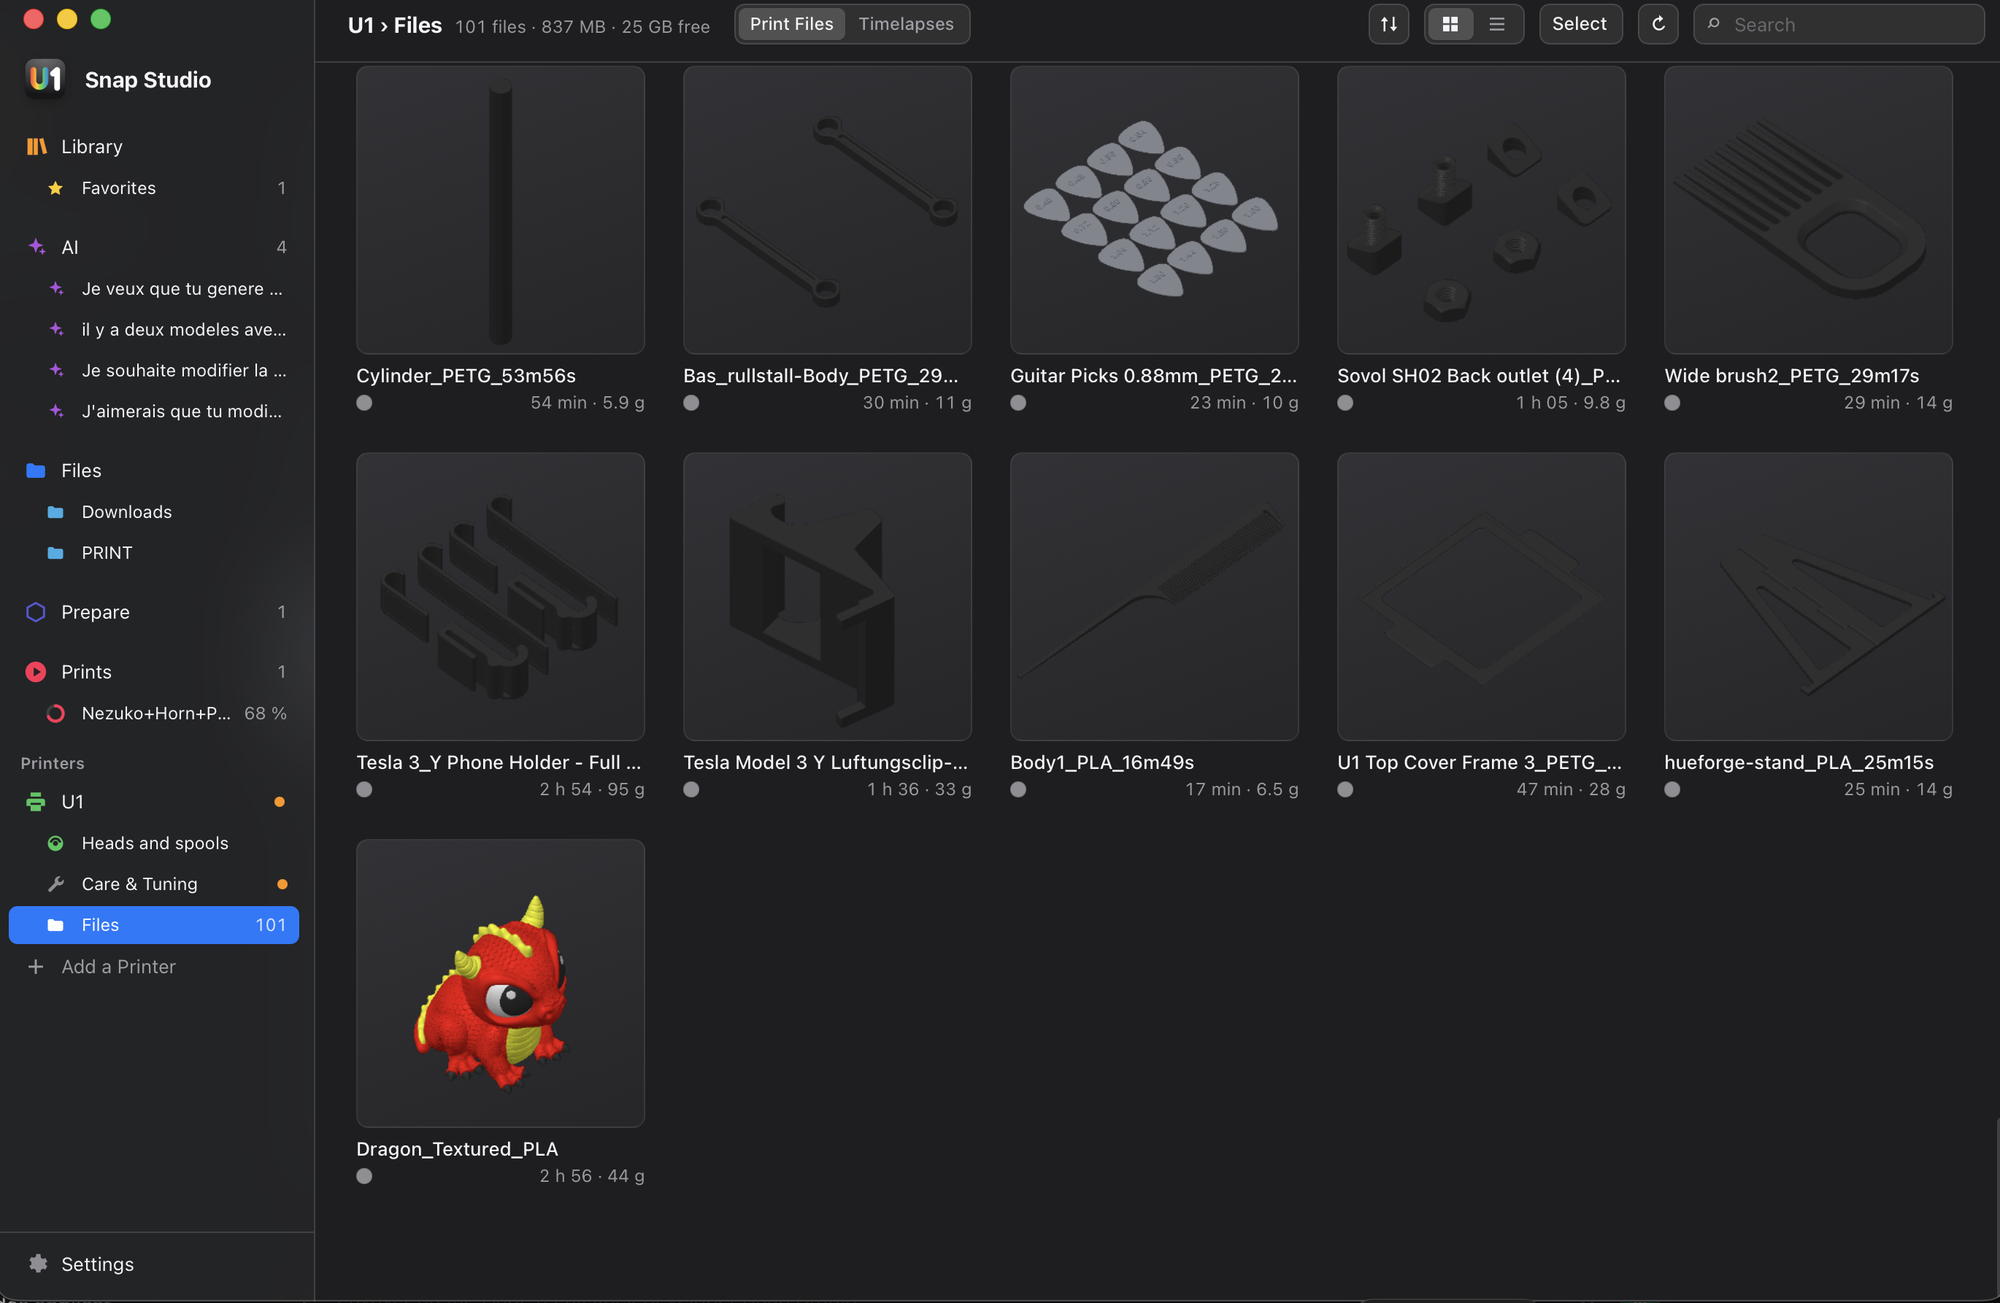
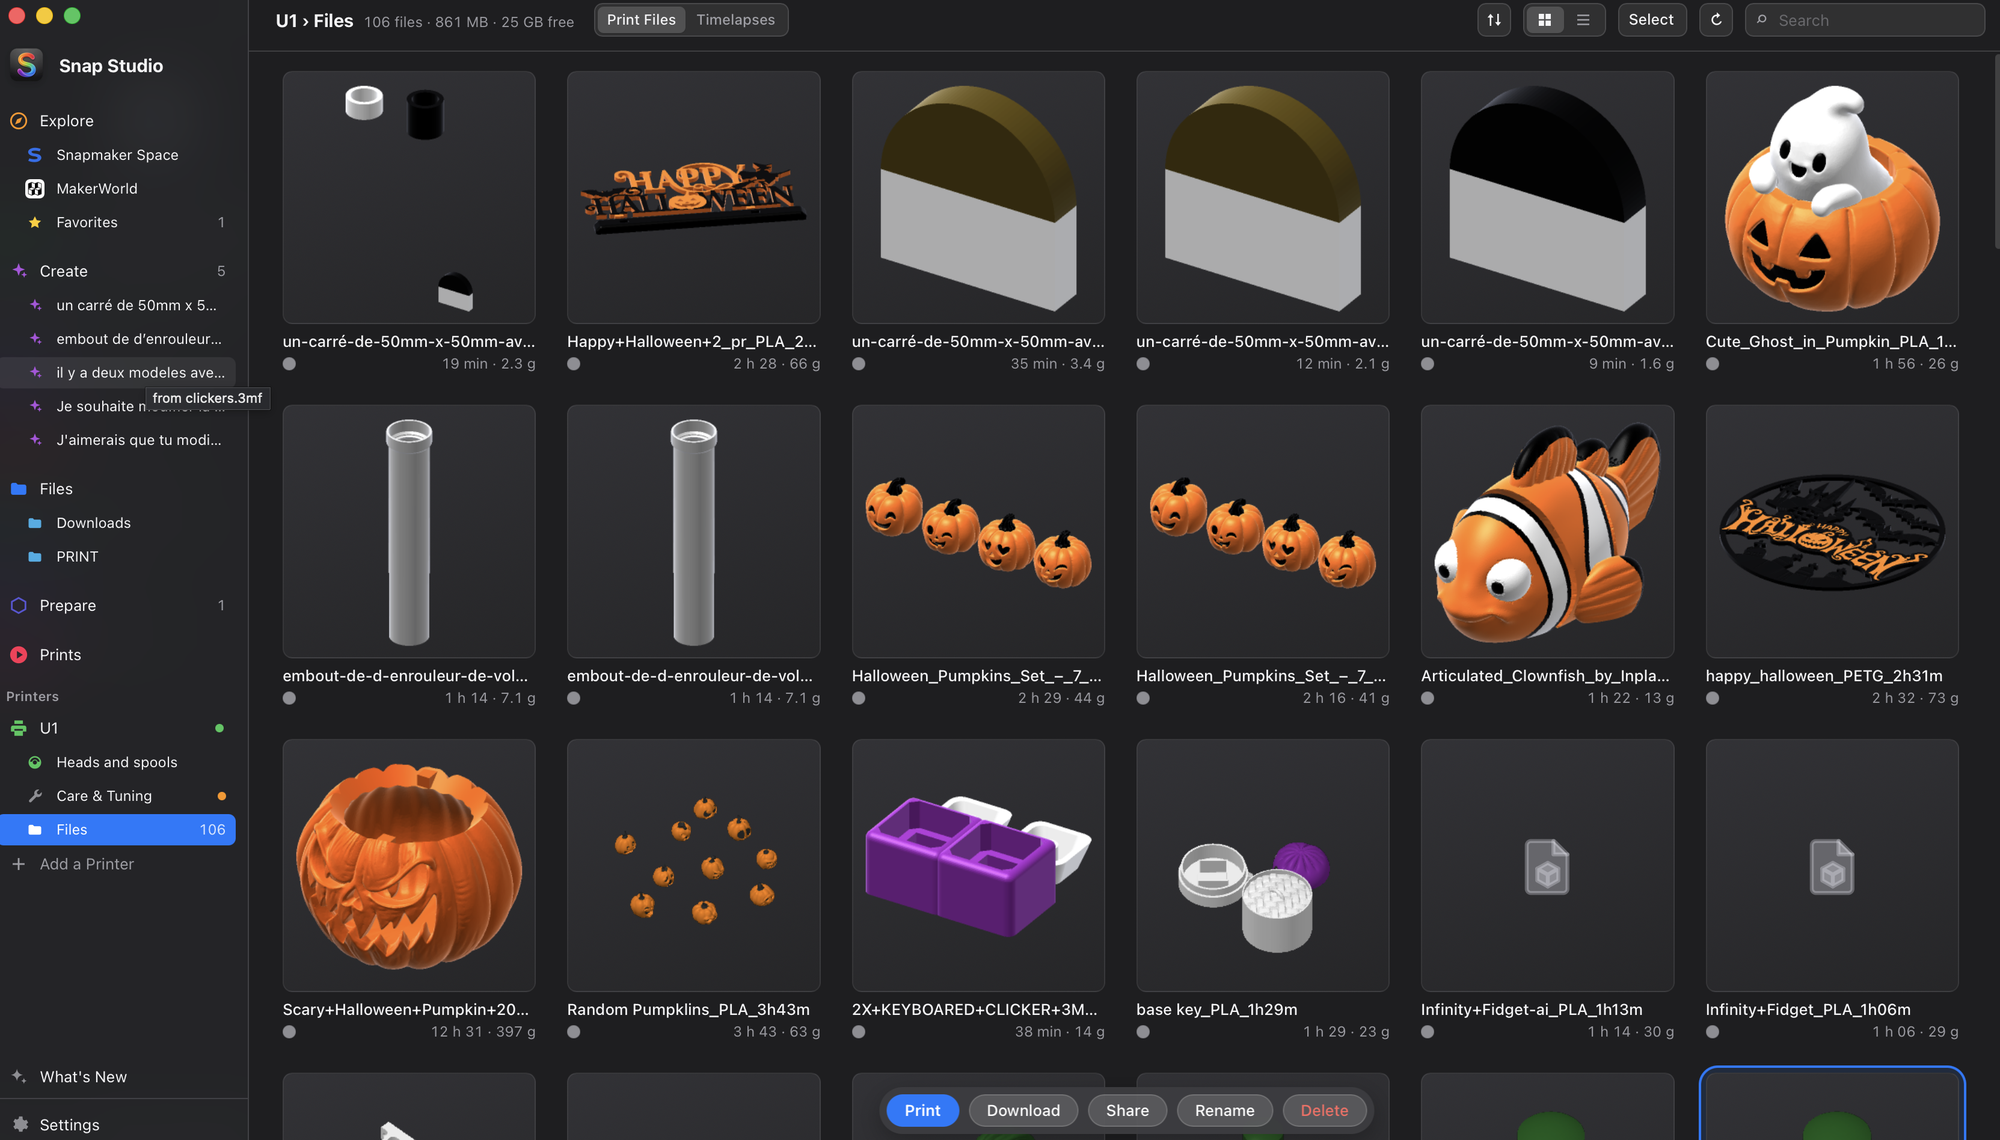
docs: Real screenshots of the current app for the README and the site
control, display, library (Explore), maintenance (Care), printer-files
and printer (the README's hero) are retaken with the rainbow S icon, the
Explore / Create sidebar and the What's New card; printer-camera is now
the pinned camera window with its close button. The site's WebP copies,
thumbnails, sizes and captions follow, and the 0.16 What's new shows the
real New virtual head sheet. What's new entries 0.9 to 0.14 keep the
pictures of their time, moved to <name>-<version>.webp.

diff --git a/site/index.html b/site/index.html
@@ -37,7 +37,7 @@
         <a class="btn ghost" href="https://github.com/kameka22/snap-studio" data-i18n="hero.source">View on GitHub</a>
       </div>
       <p id="hero-dl-note" class="note"></p>
-      <img class="hero-shot" src="assets/printer.webp" alt="The printer&#x27;s page: the U1 in 3D and its spools" data-i18n-alt="shots.printer_alt" width="1400" height="817">
+      <img class="hero-shot" src="assets/printer.webp" alt="The printer&#x27;s page: the U1 in 3D and its spools" data-i18n-alt="shots.printer_alt" width="1400" height="807">
     </section>
 
     <section id="features" class="features">
@@ -83,13 +83,13 @@
           <div class="g-track" aria-live="polite">
           <figure class="g-slide is-active" role="group" aria-roledescription="slide" data-i18n-roledesc="gal.slide_role" aria-label="1 / 12" data-index="0">
             <button type="button" class="g-open" data-open="0" aria-label="Open fullscreen: Your printer in 3D: click a spool, a head, the bed or the light to control it" data-cap="shots.printer" tabindex="0">
-              <img src="assets/printer.webp" alt="The printer&#x27;s page: the U1 in 3D and its spools" data-i18n-alt="shots.printer_alt" width="1400" height="817">
+              <img src="assets/printer.webp" alt="The printer&#x27;s page: the U1 in 3D and its spools" data-i18n-alt="shots.printer_alt" width="1400" height="807">
             </button>
             <figcaption><span class="g-cap" data-i18n="shots.printer">Your printer in 3D: click a spool, a head, the bed or the light to control it</span></figcaption>
           </figure>
           <figure class="g-slide" role="group" aria-roledescription="slide" data-i18n-roledesc="gal.slide_role" aria-label="2 / 12" data-index="1" aria-hidden="true">
             <button type="button" class="g-open" data-open="1" aria-label="Open fullscreen: Control: move, heat, load and unload each head, fans and light, without G-code" data-cap="shots.control" tabindex="-1">
-              <img src="assets/control.webp" alt="Care &amp; Tuning › Control" data-i18n-alt="shots.control_alt" width="1400" height="817">
+              <img src="assets/control.webp" alt="Care &amp; Tuning › Control" data-i18n-alt="shots.control_alt" width="1400" height="799">
             </button>
             <figcaption><span class="g-cap" data-i18n="shots.control">Control: move, heat, load and unload each head, fans and light, without G-code</span></figcaption>
           </figure>
@@ -112,10 +112,10 @@
             <figcaption><span class="g-cap" data-i18n="shots.ai-chat">AI: Claude models a part, with a live 3D preview</span></figcaption>
           </figure>
           <figure class="g-slide" role="group" aria-roledescription="slide" data-i18n-roledesc="gal.slide_role" aria-label="6 / 12" data-index="5" aria-hidden="true">
-            <button type="button" class="g-open" data-open="5" aria-label="Open fullscreen: Camera: the printer&#x27;s camera, live" data-cap="shots.printer-camera" tabindex="-1">
-              <img src="assets/printer-camera.webp" alt="The printer&#x27;s camera" data-i18n-alt="shots.printer-camera_alt" width="1400" height="824" loading="lazy">
+            <button type="button" class="g-open" data-open="5" aria-label="Open fullscreen: Camera: the printer&#x27;s camera, live, pinned in a corner" data-cap="shots.printer-camera" tabindex="-1">
+              <img src="assets/printer-camera.webp" alt="The printer&#x27;s camera" data-i18n-alt="shots.printer-camera_alt" width="1400" height="668" loading="lazy">
             </button>
-            <figcaption><span class="g-cap" data-i18n="shots.printer-camera">Camera: the printer&#x27;s camera, live</span></figcaption>
+            <figcaption><span class="g-cap" data-i18n="shots.printer-camera">Camera: the printer&#x27;s camera, live, pinned in a corner</span></figcaption>
           </figure>
           <figure class="g-slide" role="group" aria-roledescription="slide" data-i18n-roledesc="gal.slide_role" aria-label="7 / 12" data-index="6" aria-hidden="true">
             <button type="button" class="g-open" data-open="6" aria-label="Open fullscreen: Prints: progress, temperatures, pause and cancel" data-cap="shots.print-job" tabindex="-1">
@@ -125,25 +125,25 @@
           </figure>
           <figure class="g-slide" role="group" aria-roledescription="slide" data-i18n-roledesc="gal.slide_role" aria-label="8 / 12" data-index="7" aria-hidden="true">
             <button type="button" class="g-open" data-open="7" aria-label="Open fullscreen: A printer&#x27;s files: print files and timelapses, read live" data-cap="shots.printer-files" tabindex="-1">
-              <img src="assets/printer-files.webp" alt="A printer&#x27;s files" data-i18n-alt="shots.printer-files_alt" width="1400" height="912" loading="lazy">
+              <img src="assets/printer-files.webp" alt="A printer&#x27;s files" data-i18n-alt="shots.printer-files_alt" width="1400" height="798" loading="lazy">
             </button>
             <figcaption><span class="g-cap" data-i18n="shots.printer-files">A printer&#x27;s files: print files and timelapses, read live</span></figcaption>
           </figure>
           <figure class="g-slide" role="group" aria-roledescription="slide" data-i18n-roledesc="gal.slide_role" aria-label="9 / 12" data-index="8" aria-hidden="true">
             <button type="button" class="g-open" data-open="8" aria-label="Open fullscreen: Explore home: Space, Store, Wiki, Forum, Account, libraries and Store picks" data-cap="shots.library" tabindex="-1">
-              <img src="assets/library.webp" alt="Explore home: Snapmaker Space, Store, Wiki, Forum, Account, model libraries and featured Store products" data-i18n-alt="shots.library_alt" width="1400" height="917" loading="lazy">
+              <img src="assets/library.webp" alt="Explore home: Snapmaker Space, Store, Wiki, Forum, Account, model libraries and featured Store products" data-i18n-alt="shots.library_alt" width="1400" height="800" loading="lazy">
             </button>
             <figcaption><span class="g-cap" data-i18n="shots.library">Explore home: Space, Store, Wiki, Forum, Account, libraries and Store picks</span></figcaption>
           </figure>
           <figure class="g-slide" role="group" aria-roledescription="slide" data-i18n-roledesc="gal.slide_role" aria-label="10 / 12" data-index="9" aria-hidden="true">
             <button type="button" class="g-open" data-open="9" aria-label="Open fullscreen: Care &amp; Tuning: maintenance tasks, the heads&#x27; counters, the bed&#x27;s leveling" data-cap="shots.maintenance" tabindex="-1">
-              <img src="assets/maintenance.webp" alt="Care &amp; Tuning" data-i18n-alt="shots.maintenance_alt" width="1400" height="912" loading="lazy">
+              <img src="assets/maintenance.webp" alt="Care &amp; Tuning" data-i18n-alt="shots.maintenance_alt" width="1400" height="803" loading="lazy">
             </button>
             <figcaption><span class="g-cap" data-i18n="shots.maintenance">Care &amp; Tuning: maintenance tasks, the heads&#x27; counters, the bed&#x27;s leveling</span></figcaption>
           </figure>
           <figure class="g-slide" role="group" aria-roledescription="slide" data-i18n-roledesc="gal.slide_role" aria-label="11 / 12" data-index="10" aria-hidden="true">
             <button type="button" class="g-open" data-open="10" aria-label="Open fullscreen: Display: light or dark, ten themes and the accent color" data-cap="shots.display" tabindex="-1">
-              <img src="assets/display.webp" alt="Settings › Display" data-i18n-alt="shots.display_alt" width="1400" height="912" loading="lazy">
+              <img src="assets/display.webp" alt="Settings › Display" data-i18n-alt="shots.display_alt" width="1400" height="805" loading="lazy">
             </button>
             <figcaption><span class="g-cap" data-i18n="shots.display">Display: light or dark, ten themes and the accent color</span></figcaption>
           </figure>
@@ -162,17 +162,17 @@
           <button type="button" class="g-play" id="g-play" aria-pressed="false" aria-label="Pause the slideshow" data-i18n-aria="gal.pause"><svg class="i-pause" viewBox="0 0 24 24" aria-hidden="true" focusable="false"><path d="M8 5v14M16 5v14"/></svg><svg class="i-play" viewBox="0 0 24 24" aria-hidden="true" focusable="false"><path d="M8 5l11 7-11 7z"/></svg></button>
         </div>
         <div class="g-thumbs" id="g-thumbs">
-        <button type="button" class="g-thumb is-active" data-go="0" aria-label="Your printer in 3D: click a spool, a head, the bed or the light to control it" data-cap="shots.printer" aria-current="true"><img src="assets/thumbs/printer.webp" alt="" width="160" height="94" loading="lazy"></button>
-        <button type="button" class="g-thumb" data-go="1" aria-label="Control: move, heat, load and unload each head, fans and light, without G-code" data-cap="shots.control"><img src="assets/thumbs/control.webp" alt="" width="160" height="94" loading="lazy"></button>
+        <button type="button" class="g-thumb is-active" data-go="0" aria-label="Your printer in 3D: click a spool, a head, the bed or the light to control it" data-cap="shots.printer" aria-current="true"><img src="assets/thumbs/printer.webp" alt="" width="160" height="92" loading="lazy"></button>
+        <button type="button" class="g-thumb" data-go="1" aria-label="Control: move, heat, load and unload each head, fans and light, without G-code" data-cap="shots.control"><img src="assets/thumbs/control.webp" alt="" width="160" height="91" loading="lazy"></button>
         <button type="button" class="g-thumb" data-go="2" aria-label="Files: thumbnails of your 3MF files, duration, filament and plates" data-cap="shots.files"><img src="assets/thumbs/files.webp" alt="" width="160" height="104" loading="lazy"></button>
         <button type="button" class="g-thumb" data-go="3" aria-label="Prepare: the U1 plate in 3D, each color sent to its head, and one prime tower per material" data-cap="shots.prepare"><img src="assets/thumbs/prepare.webp" alt="" width="160" height="104" loading="lazy"></button>
         <button type="button" class="g-thumb" data-go="4" aria-label="AI: Claude models a part, with a live 3D preview" data-cap="shots.ai-chat"><img src="assets/thumbs/ai-chat.webp" alt="" width="160" height="104" loading="lazy"></button>
-        <button type="button" class="g-thumb" data-go="5" aria-label="Camera: the printer&#x27;s camera, live" data-cap="shots.printer-camera"><img src="assets/thumbs/printer-camera.webp" alt="" width="160" height="94" loading="lazy"></button>
+        <button type="button" class="g-thumb" data-go="5" aria-label="Camera: the printer&#x27;s camera, live, pinned in a corner" data-cap="shots.printer-camera"><img src="assets/thumbs/printer-camera.webp" alt="" width="160" height="76" loading="lazy"></button>
         <button type="button" class="g-thumb" data-go="6" aria-label="Prints: progress, temperatures, pause and cancel" data-cap="shots.print-job"><img src="assets/thumbs/print-job.webp" alt="" width="160" height="94" loading="lazy"></button>
-        <button type="button" class="g-thumb" data-go="7" aria-label="A printer&#x27;s files: print files and timelapses, read live" data-cap="shots.printer-files"><img src="assets/thumbs/printer-files.webp" alt="" width="160" height="104" loading="lazy"></button>
-        <button type="button" class="g-thumb" data-go="8" aria-label="Explore home: Space, Store, Wiki, Forum, Account, libraries and Store picks" data-cap="shots.library"><img src="assets/thumbs/library.webp" alt="" width="160" height="104" loading="lazy"></button>
-        <button type="button" class="g-thumb" data-go="9" aria-label="Care &amp; Tuning: maintenance tasks, the heads&#x27; counters, the bed&#x27;s leveling" data-cap="shots.maintenance"><img src="assets/thumbs/maintenance.webp" alt="" width="160" height="104" loading="lazy"></button>
-        <button type="button" class="g-thumb" data-go="10" aria-label="Display: light or dark, ten themes and the accent color" data-cap="shots.display"><img src="assets/thumbs/display.webp" alt="" width="160" height="104" loading="lazy"></button>
+        <button type="button" class="g-thumb" data-go="7" aria-label="A printer&#x27;s files: print files and timelapses, read live" data-cap="shots.printer-files"><img src="assets/thumbs/printer-files.webp" alt="" width="160" height="91" loading="lazy"></button>
+        <button type="button" class="g-thumb" data-go="8" aria-label="Explore home: Space, Store, Wiki, Forum, Account, libraries and Store picks" data-cap="shots.library"><img src="assets/thumbs/library.webp" alt="" width="160" height="91" loading="lazy"></button>
+        <button type="button" class="g-thumb" data-go="9" aria-label="Care &amp; Tuning: maintenance tasks, the heads&#x27; counters, the bed&#x27;s leveling" data-cap="shots.maintenance"><img src="assets/thumbs/maintenance.webp" alt="" width="160" height="92" loading="lazy"></button>
+        <button type="button" class="g-thumb" data-go="10" aria-label="Display: light or dark, ten themes and the accent color" data-cap="shots.display"><img src="assets/thumbs/display.webp" alt="" width="160" height="92" loading="lazy"></button>
         <button type="button" class="g-thumb" data-go="11" aria-label="Slicing: plate, quality, heads and spools read from the printer" data-cap="shots.slicing"><img src="assets/thumbs/slicing.webp" alt="" width="160" height="148" loading="lazy"></button>
           <span class="g-ind" aria-hidden="true"></span>
         </div>

diff --git a/site/i18n.js b/site/i18n.js
@@ -45,7 +45,7 @@ const STRINGS = {
     "shots.ai-chat_alt": "An AI conversation",
     "shots.printer": "Your printer in 3D: click a spool, a head, the bed or the light to control it",
     "shots.printer_alt": "The printer's page: the U1 in 3D and its spools",
-    "shots.printer-camera": "Camera: the printer's camera, live",
+    "shots.printer-camera": "Camera: the printer's camera, live, pinned in a corner",
     "shots.printer-camera_alt": "The printer's camera",
     "shots.print-job": "Prints: progress, temperatures, pause and cancel",
     "shots.print-job_alt": "A print in progress",
@@ -145,7 +145,7 @@ const STRINGS = {
     "shots.ai-chat_alt": "Une conversation IA",
     "shots.printer": "Votre imprimante en 3D : cliquez une bobine, une tête, le plateau ou la lumière pour en ouvrir les contrôles",
     "shots.printer_alt": "La page de l'imprimante : la U1 en 3D et ses bobines",
-    "shots.printer-camera": "Caméra : la caméra de l'imprimante, en direct",
+    "shots.printer-camera": "Caméra : la caméra de l'imprimante, en direct, épinglée dans un coin",
     "shots.printer-camera_alt": "La caméra de l'imprimante",
     "shots.print-job": "Impressions : progression, températures, pause et annulation",
     "shots.print-job_alt": "Une impression en cours",

diff --git a/README.fr.md b/README.fr.md
@@ -227,7 +227,7 @@ Impressions en cours et file d'attente.
 
 ### 📷 Caméra
 
-<img align="right" width="48%" hspace="12" src="docs/screenshots/printer-camera.png" alt="La caméra de l'imprimante" />
+<img align="right" width="48%" hspace="12" src="docs/screenshots/printer-camera.png" alt="La caméra de l'imprimante, épinglée dans un coin, avec son ✕" />
 
 La caméra de l'imprimante, en direct.
 

diff --git a/README.md b/README.md
@@ -205,7 +205,7 @@ Running prints and a queue.
 
 ### 📷 Camera
 
-<img align="right" width="48%" hspace="12" src="docs/screenshots/printer-camera.png" alt="The printer's camera" />
+<img align="right" width="48%" hspace="12" src="docs/screenshots/printer-camera.png" alt="The printer's camera, pinned in a corner, with its ✕" />
 
 The printer's camera, live.
 
